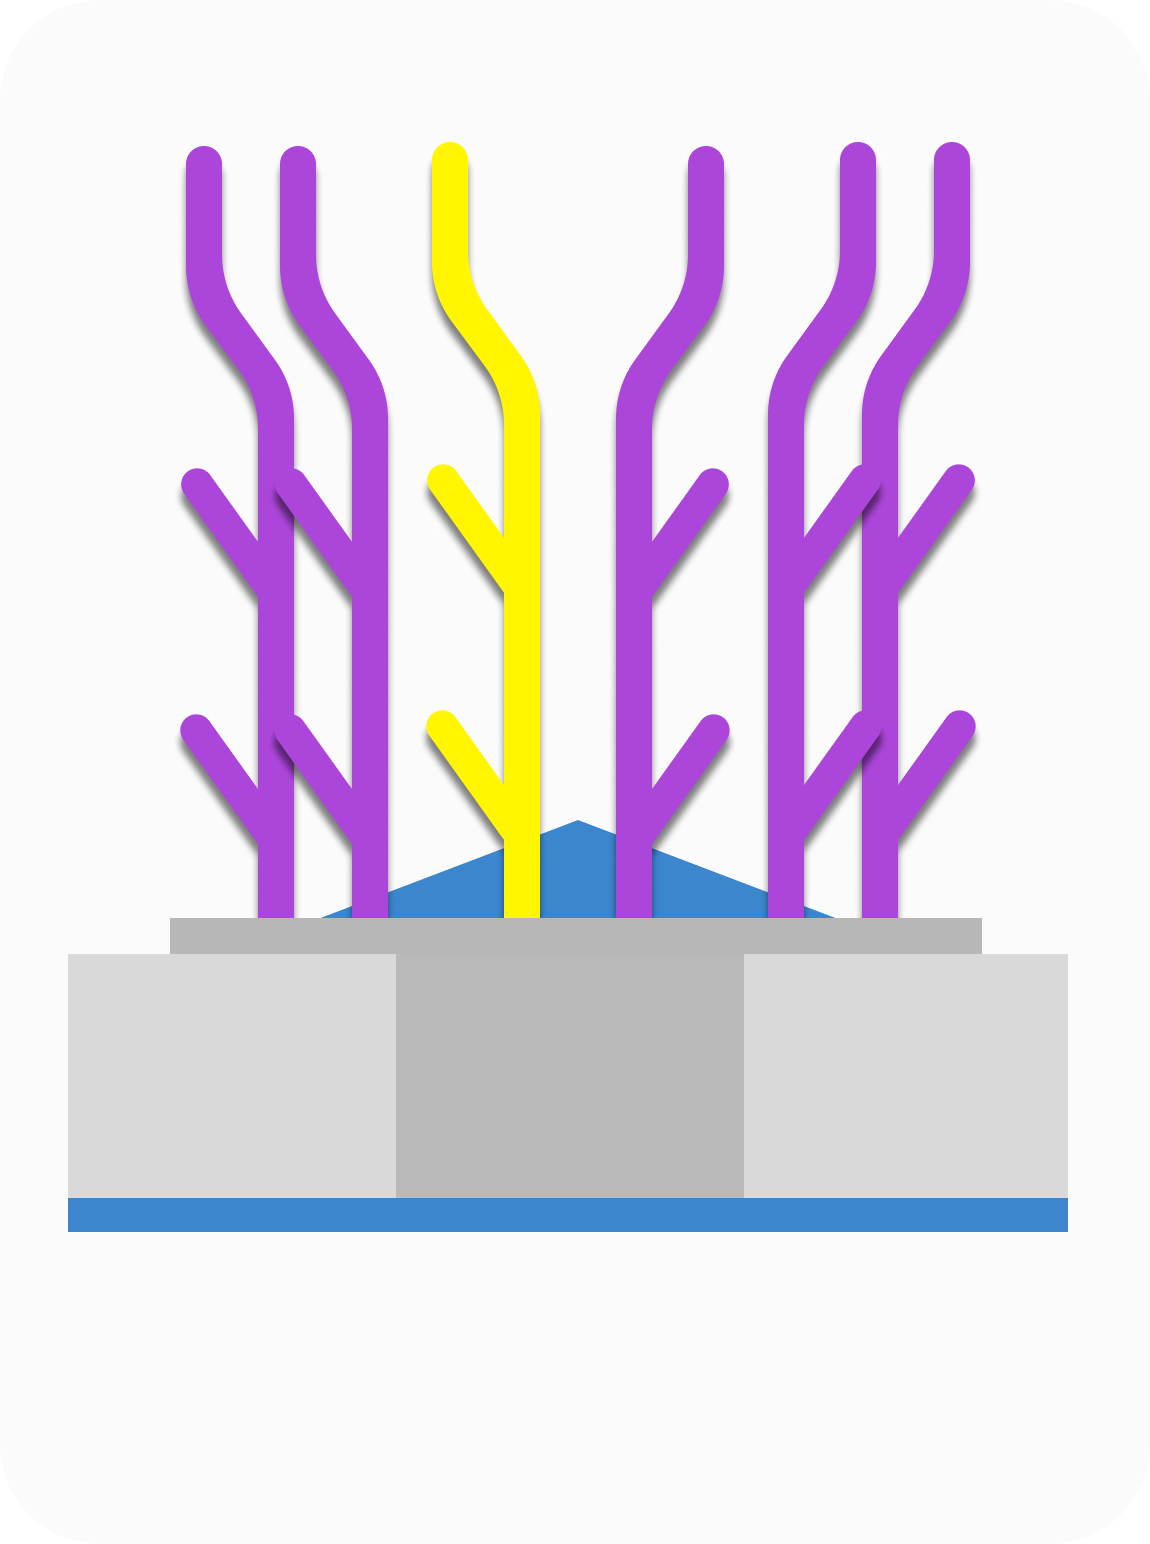
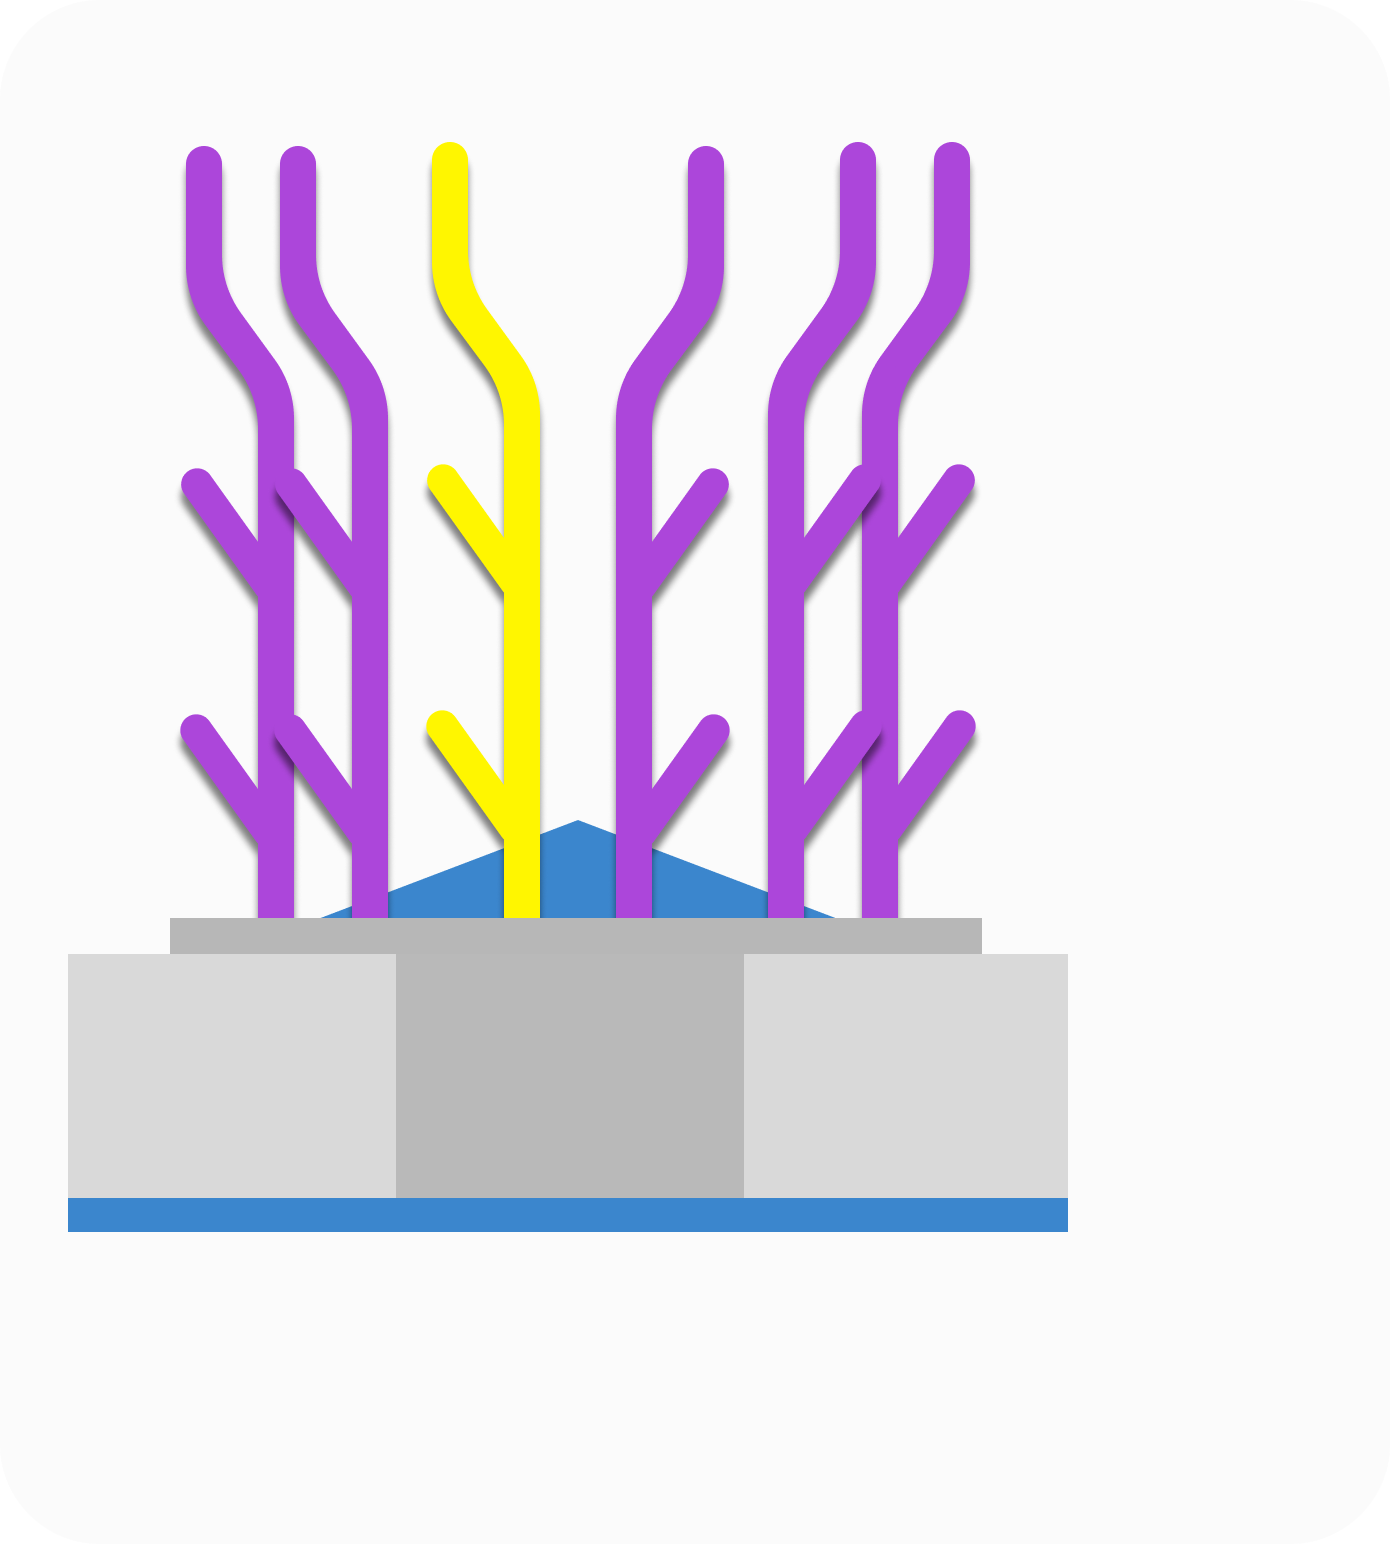
hange

Changed region(s): [[0.1217, 0.0933, 0.9435, 0.8083], [0.0304, 0.6218, 0.0609, 0.8083], [0.1217, 0.5907, 0.1522, 0.6218]]

diff --git a/client/static/scripts/data_collection/coral_screen/CoralScreen.js b/client/static/scripts/data_collection/coral_screen/CoralScreen.js
@@ -2,13 +2,13 @@ import Reef from "./Reef.js"
 import ClickArea from "./ClickArea.js"
 import { consoleLog } from "../../utility.js"
 import ProceedBtn from "./ProceedBtn.js"
+import DrawableObject from "../DrawableObject.js"
 
 
 export default class CoralScreen {
     constructor({ctx, allianceColor, images, canvasSize, letter, renderQueue, zIndex}) {
         this.ctx = ctx
         this.canvasSize = canvasSize
-        this.isSelected = false
         this.letter = letter
 
         const startX = canvasSize.x * 0.27
@@ -25,26 +25,34 @@ export default class CoralScreen {
         })
 
         this.clickAreas = []
+        this.scoreIndicators = []
+        this.data = [[0,0],[0,0],[0,0],[0,0]]
 
         for(let i = 0; i < 4; i++) {
-            this.clickAreas.push(
-                new ClickArea({ctx, zIndex: zIndex+3, renderQueue, idx: i, scored: false, missing: 0, isSelected: false, img: images.clickAreaImage, canvasSize: this.canvasSize,
-                    pos: {
-                        x: startX + padX,
-                        y: startY + padY + canvasSize.y * 0.142 * i,
-                    },
-                })
-            )
+            const cA = new ClickArea({ctx, zIndex: zIndex+3, renderQueue, value: 0, img: images.clickAreaImage, canvasSize: this.canvasSize,
+                pos: {
+                    x: startX + padX,
+                    y: startY + padY + canvasSize.y * 0.142 * i,
+                },
+            })
+            this.clickAreas.push(cA)
+            const sI = new DrawableObject({ctx, sX: 1, sY: 1, img: "text", text: `${this.data[i][0]}/${this.data[i][1]}`, textSize: canvasSize.x * 0.04, renderQueue, zIndex: 9999999,
+                x: startX + padX + cA.sX + canvasSize.x * 0.05,
+                y: startY + padY + canvasSize.y * 0.142 * i + canvasSize.x * 0.06,
+            })
+            sI.color = allianceColor == "B" ? "rgb(59, 134, 205)" : "rgb(255, 43, 43)"
+            this.scoreIndicators.push(sI)
         }
     }
 
     draw() {
-        if (this.isSelected) {
-            this.reef.draw()
-            this.proceedBtn.draw()
-            for(const clickArea of this.clickAreas) {
-                clickArea.draw()
-            }
+        this.reef.draw()
+        this.proceedBtn.draw()
+        for(const clickArea of this.clickAreas) {
+            clickArea.draw()
+        }
+        for(const sI of this.scoreIndicators) {
+            sI.draw()
         }
     }
 
@@ -66,14 +74,23 @@ export default class CoralScreen {
                 if(clicked) {
                     for(const a of this.clickAreas) {
                         if(a != area) {
-                            a.setIsSelected({value: false})
+                            a.setValue({value: 0})
                         }
                     }
                 }
             }
             
             if (this.proceedBtn.onClick({x, y})) {
-                this.isSelected = false 
+                for(let i = 0; i < 4; i++) {
+                    const a = this.clickAreas[i]
+                    if(a.value == 1) {
+                        this.data[i][0]++
+                    }
+                    if(a.value == 2) {
+                        this.data[i][1]++
+                    }
+                    a.setValue({value: 0})
+                }
             }
         }
     }

diff --git a/client/static/scripts/data_collection/DrawableObject.js b/client/static/scripts/data_collection/DrawableObject.js
@@ -61,7 +61,7 @@ export default class DrawableObject {
         const y = Math.sin(a) * 1/2 * this.sY*this.dpr + Math.sin(Math.PI/2 - a) * 1/2 * this.sX*this.dpr
 
         if (a == Math.PI/4) {
-            consoleLog(x, y)
+            //consoleLog(x, y)
         }
         this.ctx.translate(x, -y)
         this.ctx.rotate(-a + Math.PI/2) //add rotation
@@ -89,6 +89,11 @@ export default class DrawableObject {
                 this.ctx.fill()
                 this.ctx.translate(0, this.radius*this.dpr/3)
                 this.ctx.fillStyle = "#FFFFFF"
+                this.ctx.textAlign = "center"
+                this.ctx.font = `${(this.textSize ?? 14)*this.dpr}px 'Rubik', sans-serif`
+                this.ctx.fillText(this.text, 0, 0)
+            } else if(this.img == "text") {
+                this.ctx.fillStyle = this.color
                 this.ctx.textAlign = "center"
                 this.ctx.font = `${(this.textSize ?? 14)*this.dpr}px 'Rubik', sans-serif`
                 this.ctx.fillText(this.text, 0, 0)

diff --git a/client/static/scripts/data_collection/coral_screen/Reef.js b/client/static/scripts/data_collection/coral_screen/Reef.js
@@ -4,7 +4,7 @@ import Letter from "./Letter.js"
 export default class Reef extends DrawableObject {
     constructor({ctx, allianceColor, renderQueue, images, letter, canvasSize, pos, visible = true, zIndex}) {
         const ch = letter.charCodeAt(0)
-        super({ctx, renderQueue, zIndex, img: (ch % 2) ? images.reefLeftImage : images.reefRightImage, x: pos.x, y: pos.y, r: 90, sX: canvasSize.x / 2.2, sY: canvasSize.x / 2.2 * 1.34260869565, visible})
+        super({ctx, renderQueue, zIndex, img: (ch % 2) ? images.reefLeftImage : images.reefRightImage, x: pos.x, y: pos.y, r: 90, sX: canvasSize.x / 1.84, sY: canvasSize.x / 1.84 * 1.111, visible})
         this.letters = []
         let idx = 0
         let leftAligned = (ch % 2)

diff --git a/client/static/scripts/data_collection/coral_screen/ClickArea.js b/client/static/scripts/data_collection/coral_screen/ClickArea.js
@@ -83,7 +83,6 @@ export default class ClickArea extends DrawableObject {
             Date.now() - this.lastTick,
             changePerS
         )
-
         this.highlight.color = lerpColor(this.highlight.color,
             getColor(this.value),
             Date.now() - this.lastTick,
